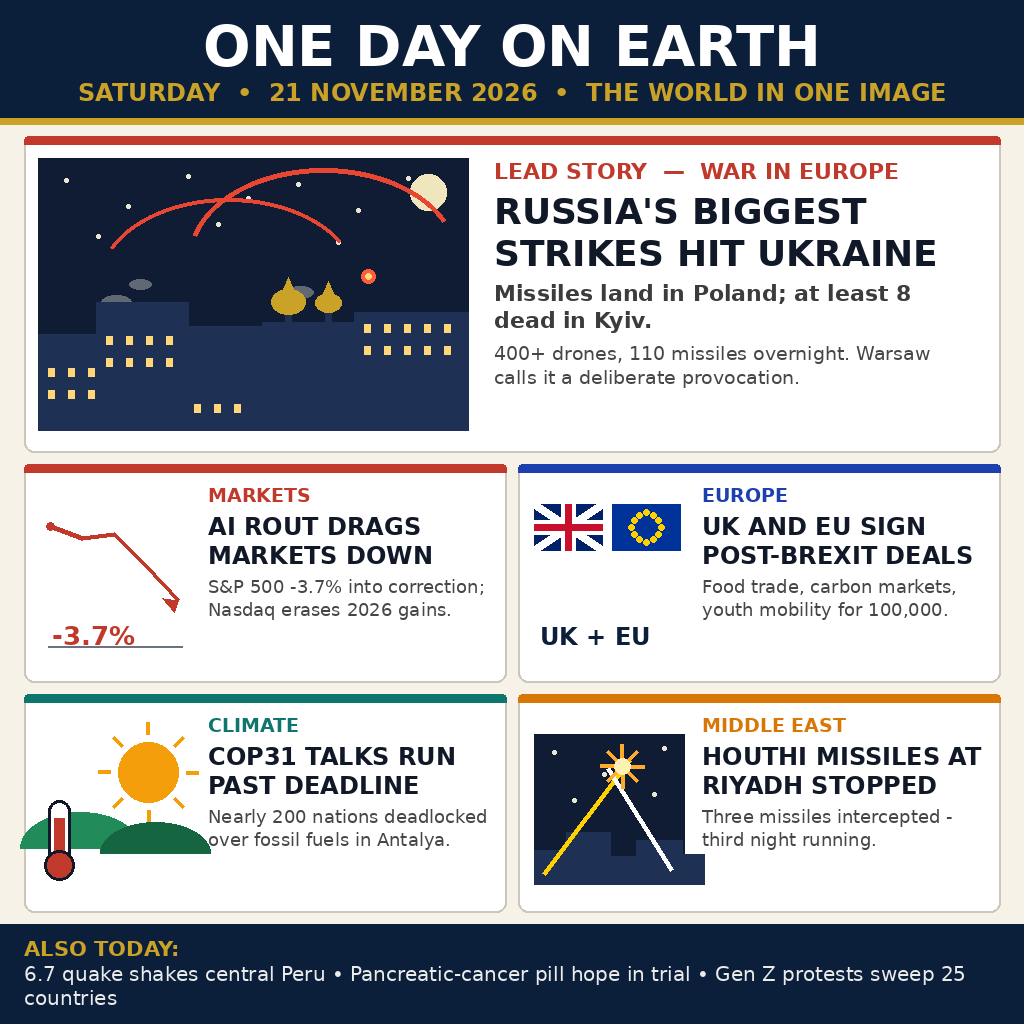
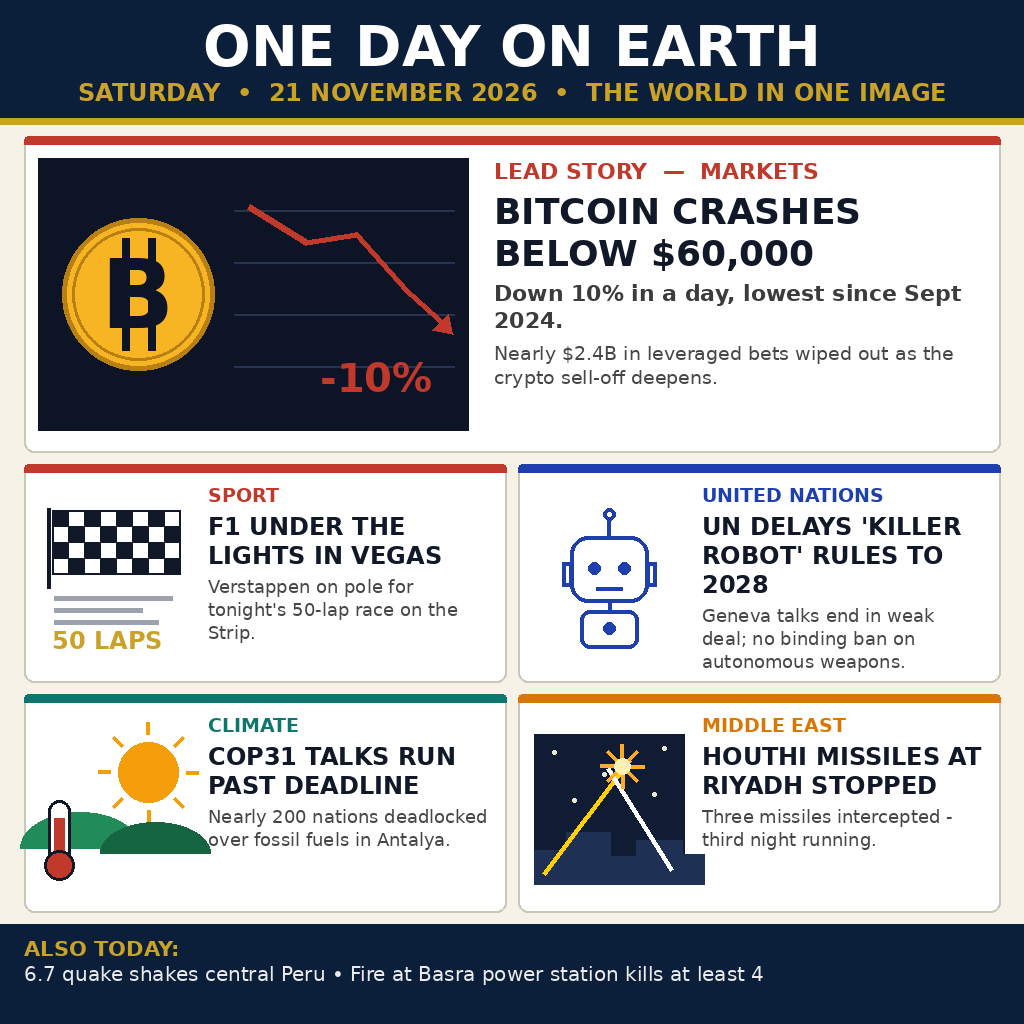
news-image-20261121 @berkahmuse: replace 5 stories dated 20 Nov with verified 21 Nov stories

diff --git a/render.py b/render.py
@@ -2,11 +2,39 @@
 """Render the 21 November 2026 world-news image (1024x1024 PNG).
 
 Concept: "ONE DAY ON EARTH" — a newspaper front page with one dominant
-lead story (Russia's mass strikes on Ukraine, missiles landing in Poland)
-and four illustrated story cards, plus an "also today" ticker.
-All six stories were verified as events of Saturday 21 November 2026
-from multiple independent news sources (BBC, Reuters, Al Jazeera,
-Financial Times, Guardian, OneTurn, Horizon).
+lead story (Bitcoin's crash below $60,000) and four illustrated story
+cards, plus an "also today" ticker.
+
+FIX NOTE (21 Nov 2026): the first build of this entry FAILED independent
+verification because 5 of its 8 stories were events of 20 November, not
+the 21st (Russia-strikes lead, S&P 500 rout, UK-EU deals, pancreatic-
+cancer pill ticker, Gen Z protests ticker). Those 5 were replaced with
+the stories below; the COP31, Houthi and Peru stories were kept (the
+verifier confirmed them as 21 November). Every story in this version,
+with the date evidence checked before rendering:
+
+- LEAD (Markets): Bitcoin crashes below $60,000 — CoinGecko 06:06 UTC
+  Sat 21 Nov: $55,684, -9.96% in 24h, lowest since Sept 2024; 24h
+  liquidations $1.76B (BeInCrypto) to nearly $2.4B (CryptoPotato /
+  The Defiant). Sources: bitcoinfoundation.org, trustscrypto.com.
+- SPORT: F1 Las Vegas GP — race night Sat 21 Nov (20:00 PST, 50 laps,
+  Las Vegas Strip Circuit); Verstappen on pole after fastest qualifier
+  Antonelli took a 5-place grid penalty. Sources: Reuters 21 Nov,
+  formula1.com. (Preview only — the race had not run at build time.)
+- UNITED NATIONS: CCW "killer robot" talks in Geneva end Sat 21 Nov
+  (~03:00 GMT) in a weak, non-binding deal: a two-year mandate to
+  elaborate rules by 2028; ~100 states backed binding rules, the US,
+  Russia and Israel opposed. Source: Reuters 21 Nov.
+- CLIMATE: COP31 (Antalya) talks run past their Friday deadline —
+  closing plenary suspended 22:29 Fri, third draft and plenary continue
+  Sat 21 Nov. Sources: AP / TBS News, The Climate Watch.
+- MIDDLE EAST: Saudi-led coalition intercepts 3 Houthi ballistic
+  missiles aimed at Riyadh in the early hours of Sat 21 Nov, the third
+  night running. Source: Reuters 21 Nov.
+- TICKER: M6.7 quake in central Peru — 19:09 Peru time Fri 20 Nov =
+  00:09 GMT Sat 21 Nov (AP; China Daily). Fire at the Hartha power
+  station, Basra, Sat 21 Nov kills at least 4, injures 30 (Reuters,
+  dateline Basra, Nov 21).
 
 Run:  python3 render.py            -> writes entry.png next to this file
 The entrypoint main.py only copies entry.png to /output/entry.png, so the
@@ -72,88 +100,78 @@ def card(draw, x, y, w, h, accent):
     draw.rectangle([x, y + 4, x + w, y + 8], fill=accent)
 
 
-def draw_skyline(d, x0, y0, w, h):
-    """Night skyline over Kyiv: dark sky, lit windows, a domed church,
-    red missile arcs and smoke. All flat vector shapes, contained in the
-    (x0, y0, w, h) box."""
-    d.rectangle([x0, y0, x0 + w, y0 + h], fill=(16, 28, 52))
-    # stars
-    for sx, sy in [(28, 22), (90, 48), (150, 18), (210, 40), (260, 26),
-                   (320, 52), (370, 20), (60, 78), (300, 84), (180, 66)]:
-        d.ellipse([x0 + sx - 2, y0 + sy - 2, x0 + sx + 2, y0 + sy + 2],
-                  fill=(230, 230, 210))
-    # moon (small, top right)
-    d.ellipse([x0 + w - 58, y0 + 16, x0 + w - 22, y0 + 52],
-              fill=(240, 230, 190))
-    base = y0 + h
-    # missile arcs, kept inside the box
-    d.arc([x0 + 150, y0 + 10, x0 + 420, y0 + 190], start=195, end=335,
-          fill=(230, 70, 50), width=5)
-    d.arc([x0 + 60, y0 + 40, x0 + 320, y0 + 210], start=205, end=330,
-          fill=(230, 70, 50), width=4)
-    for mx, my in [(x0 + 330, y0 + 118), (x0 + 258, y0 + 140)]:
-        d.ellipse([mx - 7, my - 7, mx + 7, my + 7], fill=(255, 90, 60))
-        d.ellipse([mx - 3, my - 3, mx + 3, my + 3], fill=(255, 220, 120))
-    # smoke plumes just above the rooftops
-    for sx, sy, sr in [(x0 + 78, base - 128, 15), (x0 + 102, base - 146, 11),
-                       (x0 + 262, base - 138, 13)]:
-        d.ellipse([sx - sr, sy - sr // 2, sx + sr, sy + sr // 2],
-                  fill=(96, 104, 116))
-    # buildings (silhouettes with lit windows)
-    buildings = [(0, 62, 96), (58, 92, 128), (146, 78, 104), (316, 114, 118)]
-    for bx, bw, bh in buildings:
-        d.rectangle([x0 + bx, base - bh, x0 + bx + bw, base],
-                    fill=(30, 48, 84))
-        for wy in range(base - bh + 12, base - 10, 22):
-            for wx in range(x0 + bx + 10, x0 + bx + bw - 10, 20):
-                if (wx * 7 + wy * 13) % 5 < 2:
-                    d.rectangle([wx, wy, wx + 6, wy + 8], fill=(255, 214, 120))
-    # domed church block between the buildings
-    cx0, cw2, ch2 = x0 + 224, 92, 108
-    d.rectangle([cx0, base - ch2, cx0 + cw2, base], fill=(30, 48, 84))
-    for dx, dr in [(cx0 + 26, 17), (cx0 + 66, 13)]:
-        top = base - ch2
-        d.rectangle([dx - 3, top - 16, dx + 3, top], fill=(30, 48, 84))
-        d.ellipse([dx - dr, top - 16 - dr, dx + dr, top - 16 + dr // 2],
-                  fill=(201, 162, 39))
-        d.polygon([(dx, top - 16 - dr - 12), (dx - 5, top - 16 - dr),
-                   (dx + 5, top - 16 - dr)], fill=(201, 162, 39))
-
-
-def draw_chart(d, x0, y0, w, h):
-    """Falling market chart."""
-    d.rectangle([x0, y0, x0 + w, y0 + h], fill=(255, 255, 255))
-    d.line([x0 + 8, y0 + h - 8, x0 + w - 8, y0 + h - 8], fill=GREY, width=2)
-    pts = [(x0 + 10, y0 + 22), (x0 + 42, y0 + 34), (x0 + 74, y0 + 30),
-           (x0 + 106, y0 + 62), (x0 + 138, y0 + 96)]
-    d.line(pts, fill=RED, width=5, joint="curve")
+def draw_bitcoin(d, x0, y0, w, h):
+    """Lead art: dark navy panel, a big gold coin with a bold B and two
+    vertical strokes (no bitcoin glyph in DejaVu), a red falling line
+    and a -10% label. Contained in the (x0, y0, w, h) box."""
+    d.rectangle([x0, y0, x0 + w, y0 + h], fill=(13, 20, 38))
+    # faint chart gridlines
+    for gy in (52, 104, 156, 208):
+        d.line([x0 + 196, y0 + gy, x0 + w - 14, y0 + gy],
+               fill=(38, 52, 82), width=2)
+    # gold coin
+    cx, cy, r = x0 + 100, y0 + h // 2, 76
+    d.ellipse([cx - r, cy - r, cx + r, cy + r], fill=(247, 181, 36),
+              outline=(184, 128, 20), width=5)
+    d.ellipse([cx - r + 10, cy - r + 10, cx + r - 10, cy + r - 10],
+              outline=(184, 128, 20), width=3)
+    # the two vertical strokes of the bitcoin B, peeking above/below
+    for bx in (cx - 13, cx + 13):
+        d.line([bx, cy - 56, bx, cy + 56], fill=(13, 20, 38), width=8)
+    d.text((cx, cy), "B", font=font(FONT_B, 96), fill=(13, 20, 38),
+           anchor="mm")
+    # red falling line + arrowhead
+    pts = [(x0 + 210, y0 + 48), (x0 + 268, y0 + 84), (x0 + 318, y0 + 76),
+           (x0 + 368, y0 + 132), (x0 + 408, y0 + 168)]
+    d.line(pts, fill=RED, width=6, joint="curve")
     ex, ey = pts[-1]
-    d.polygon([(ex, ey), (ex - 16, ey - 2), (ex - 4, ey + 12)], fill=RED)
-    d.ellipse([pts[0][0] - 4, pts[0][1] - 4, pts[0][0] + 4, pts[0][1] + 4],
+    d.polygon([(ex + 6, ey + 8), (ex - 14, ey + 4), (ex + 2, ey - 12)],
               fill=RED)
-    d.text((x0 + 12, y0 + h - 34), "-3.7%", font=font(FONT_B, 26), fill=RED)
+    d.text((x0 + 282, y0 + 196), "-10%", font=font(FONT_B, 40), fill=RED)
 
 
-def draw_flags(d, x0, y0, w, h):
-    """Simplified Union Jack + EU flag, side by side."""
-    # Union Jack
-    d.rectangle([x0, y0, x0 + 68, y0 + 46], fill=(1, 33, 105))
-    d.line([x0, y0, x0 + 68, y0 + 46], fill=(255, 255, 255), width=9)
-    d.line([x0 + 68, y0, x0, y0 + 46], fill=(255, 255, 255), width=9)
-    d.line([x0 + 34, y0, x0 + 34, y0 + 46], fill=(255, 255, 255), width=15)
-    d.line([x0, y0 + 23, x0 + 68, y0 + 23], fill=(255, 255, 255), width=15)
-    d.line([x0 + 34, y0, x0 + 34, y0 + 46], fill=(200, 16, 46), width=7)
-    d.line([x0, y0 + 23, x0 + 68, y0 + 23], fill=(200, 16, 46), width=7)
-    # EU flag
-    ex = x0 + 78
-    d.rectangle([ex, y0, ex + 68, y0 + 46], fill=(0, 51, 153))
-    import math
-    for i in range(12):
-        a = 2 * math.pi * i / 12 - math.pi / 2
-        sx = ex + 34 + int(15 * math.cos(a))
-        sy = y0 + 23 + int(15 * math.sin(a))
-        d.ellipse([sx - 3, sy - 3, sx + 3, sy + 3], fill=(255, 209, 0))
-    d.text((x0 + 6, y0 + h - 32), "UK + EU", font=font(FONT_B, 24), fill=NAVY)
+def draw_f1(d, x0, y0, w, h):
+    """Chequered flag (8x4) on a pole, speed lines, '50 LAPS' in gold."""
+    # pole
+    d.line([x0 + 8, y0 + 4, x0 + 8, y0 + 84], fill=INK, width=4)
+    # chequered flag
+    fx, fy, cell = x0 + 12, y0 + 6, 16
+    for row in range(4):
+        for col in range(8):
+            if (row + col) % 2 == 0:
+                d.rectangle([fx + col * cell, fy + row * cell,
+                             fx + (col + 1) * cell, fy + (row + 1) * cell],
+                            fill=INK)
+    d.rectangle([fx, fy, fx + 8 * cell, fy + 4 * cell], outline=INK, width=2)
+    # speed lines
+    for i, (off, ln) in enumerate([(94, 118), (106, 88), (118, 104)]):
+        d.line([x0 + 14, y0 + off, x0 + 14 + ln, y0 + off],
+               fill=(156, 163, 175), width=5)
+    d.text((x0 + 12, y0 + h - 28), "50 LAPS", font=font(FONT_B, 24),
+           fill=GOLD)
+
+
+def draw_un(d, x0, y0, w, h):
+    """Simple robot in blue outline: round head, antenna, two eyes, body."""
+    # antenna
+    d.line([x0 + 75, y0 + 34, x0 + 75, y0 + 16], fill=BLUE, width=4)
+    d.ellipse([x0 + 69, y0 + 4, x0 + 81, y0 + 16], outline=BLUE, width=4)
+    # ears
+    d.rectangle([x0 + 28, y0 + 58, x0 + 38, y0 + 82], outline=BLUE, width=4)
+    d.rectangle([x0 + 112, y0 + 58, x0 + 122, y0 + 82], outline=BLUE, width=4)
+    # head
+    d.rounded_rectangle([x0 + 36, y0 + 32, x0 + 114, y0 + 98], radius=18,
+                        outline=BLUE, width=4)
+    # eyes
+    for ex in (x0 + 60, x0 + 90):
+        d.ellipse([ex - 6, y0 + 58, ex + 6, y0 + 70], fill=BLUE)
+    # mouth
+    d.line([x0 + 62, y0 + 84, x0 + 88, y0 + 84], fill=BLUE, width=4)
+    # neck + body
+    d.line([x0 + 75, y0 + 98, x0 + 75, y0 + 106], fill=BLUE, width=4)
+    d.rounded_rectangle([x0 + 46, y0 + 106, x0 + 104, y0 + 144], radius=10,
+                        outline=BLUE, width=4)
+    d.ellipse([x0 + 69, y0 + 118, x0 + 81, y0 + 130], fill=BLUE)
 
 
 def draw_climate(d, x0, y0, w, h):
@@ -221,31 +239,31 @@ def main():
     # ---------- lead story ----------
     lx, ly, lw, lh = 24, 136, 976, 316
     card(d, lx, ly, lw, lh, RED)
-    draw_skyline(d, lx + 14, ly + 22, 430, 272)
+    draw_bitcoin(d, lx + 14, ly + 22, 430, 272)
     tx = lx + 470
-    d.text((tx, ly + 22), "LEAD STORY  —  WAR IN EUROPE",
+    d.text((tx, ly + 22), "LEAD STORY  —  MARKETS",
            font=font(FONT_B, 22), fill=RED)
-    head = wrap(d, "RUSSIA'S BIGGEST STRIKES HIT UKRAINE",
+    head = wrap(d, "BITCOIN CRASHES BELOW $60,000",
                 font(FONT_B, 36), lw - 496)
     y = text_block(d, tx, ly + 54, head, font(FONT_B, 36), INK, 42)
     y = text_block(d, tx, y + 6,
-                   wrap(d, "Missiles land in Poland; at least 8 dead in Kyiv.",
+                   wrap(d, "Down 10% in a day, lowest since Sept 2024.",
                         font(FONT_B, 22), lw - 496),
                    font(FONT_B, 22), (60, 60, 60), 27)
     text_block(d, tx, y + 8,
-               wrap(d, "400+ drones, 110 missiles overnight. Warsaw calls it "
-                       "a deliberate provocation.",
+               wrap(d, "Nearly $2.4B in leveraged bets wiped out as the "
+                       "crypto sell-off deepens.",
                     font(FONT_R, 19), lw - 496),
                font(FONT_R, 19), (70, 70, 70), 24)
 
     # ---------- four story cards ----------
     cards = [
-        ("MARKETS", RED, draw_chart,
-         "AI ROUT DRAGS MARKETS DOWN",
-         "S&P 500 -3.7% into correction; Nasdaq erases 2026 gains."),
-        ("EUROPE", BLUE, draw_flags,
-         "UK AND EU SIGN POST-BREXIT DEALS",
-         "Food trade, carbon markets, youth mobility for 100,000."),
+        ("SPORT", RED, draw_f1,
+         "F1 UNDER THE LIGHTS IN VEGAS",
+         "Verstappen on pole for tonight's 50-lap race on the Strip."),
+        ("UNITED NATIONS", BLUE, draw_un,
+         "UN DELAYS 'KILLER ROBOT' RULES TO 2028",
+         "Geneva talks end in weak deal; no binding ban on autonomous weapons."),
         ("CLIMATE", TEAL, draw_climate,
          "COP31 TALKS RUN PAST DEADLINE",
          "Nearly 200 nations deadlocked over fossil fuels in Antalya."),
@@ -271,8 +289,8 @@ def main():
     # ---------- footer ticker ----------
     d.rectangle([0, 924, W, H], fill=NAVY)
     d.text((24, 936), "ALSO TODAY:", font=font(FONT_B, 21), fill=GOLD)
-    ticker = ("6.7 quake shakes central Peru   •   Pancreatic-cancer pill hope in trial   •   "
-              "Gen Z protests sweep 25 countries")
+    ticker = ("6.7 quake shakes central Peru   •   "
+              "Fire at Basra power station kills at least 4")
     text_block(d, 24, 962, wrap(d, ticker, font(FONT_R, 20), W - 48),
                font(FONT_R, 20), (235, 235, 235), 24)
 

diff --git a/README.md b/README.md
@@ -13,24 +13,47 @@ A program that writes one image summing up the world's news of
 
 A newspaper front page, drawn programmatically with Pillow (`render.py`):
 
-- **Lead story — War in Europe:** Russia's biggest strikes of the war on
-  Ukraine — 400+ drones and 110 missiles overnight, at least 8 dead in Kyiv —
-  and missiles landing in Poland, which Warsaw called a deliberate provocation.
-- **Markets:** the AI sell-off — S&P 500 −3.7% into correction, Nasdaq erasing
-  its 2026 gains.
-- **Europe:** the UK and EU sign their biggest post-Brexit deals (food trade,
-  carbon markets, youth mobility for 100,000).
+- **Lead story — Markets:** Bitcoin crashes below $60,000 — down 10% in a
+  day, its lowest since September 2024, with nearly $2.4B in leveraged
+  bets wiped out.
+- **Sport:** Formula 1 under the lights in Las Vegas — Verstappen on pole
+  for the night's 50-lap race on the Strip (a race-night preview; the
+  race had not run yet).
+- **United Nations:** the Geneva "killer robot" talks end in a weak deal —
+  rules on autonomous weapons pushed to 2028, no binding ban.
 - **Climate:** COP31 talks in Antalya run past deadline, deadlocked over
   fossil fuels.
 - **Middle East:** Houthi missiles aimed at Riyadh intercepted — the third
   night running.
-- **Also today:** a 6.7 quake shakes central Peru, a pancreatic-cancer pill
-  shows hope in trial, and Gen Z protests sweep 25 countries.
+- **Also today:** a 6.7 quake shakes central Peru, and a fire at the
+  Hartha power station in Basra kills at least 4.
 
-Every story was verified as an event of 21 November 2026 from multiple
-independent news sources (BBC, Reuters, Al Jazeera, Financial Times,
-Guardian). An earlier draft's ICJ Myanmar ruling was dropped after checking:
-the ruling was delivered on 19 November, not the 21st.
+## Date verification
+
+Each story was checked against independent reporting before rendering;
+the event date below is the date of the event / first report, per the
+competition rule (an event of 21 November 2026 in any time zone):
+
+| Story | Event date | Evidence |
+|---|---|---|
+| Bitcoin below $60,000 | Sat 21 Nov 2026 | CoinGecko 06:06 UTC 21 Nov: $55,684, −9.96%/24h, lowest since Sept 2024; liquidations $1.76B (BeInCrypto) to ~$2.4B (CryptoPotato, The Defiant) — bitcoinfoundation.org, trustscrypto.com |
+| F1 Las Vegas GP | Race night Sat 21 Nov 2026 | Race Sat 21 Nov 20:00 PST, 50 laps, Las Vegas Strip Circuit; Verstappen pole after Antonelli's 5-place grid penalty — Reuters 21 Nov, formula1.com |
+| UN "killer robots" | Sat 21 Nov 2026 | CCW talks in Geneva end ~03:00 GMT Sat in a non-binding deal; two-year mandate to elaborate rules by 2028 — Reuters 21 Nov |
+| COP31 overtime | Sat 21 Nov 2026 | Closing plenary suspended Fri 22:29 local; third draft and talks continue Saturday — AP / TBS News, The Climate Watch |
+| Houthi missiles at Riyadh | Early Sat 21 Nov 2026 | Saudi-led coalition intercepts 3 ballistic missiles, third night running — Reuters 21 Nov |
+| Peru quake (ticker) | 00:09 GMT Sat 21 Nov 2026 | M6.7, central Peru; 19:09 Fri local = 00:09 GMT Sat — AP, China Daily |
+| Basra fire (ticker) | Sat 21 Nov 2026 | Fire at Hartha power station kills at least 4, injures 30 — Reuters, dateline Basra, Nov 21 |
+
+## Fix note
+
+The first build of this entry failed independent verification on
+21 Nov 2026 (~15:25 WIB): 5 of its 8 stories (the Russia-strikes lead,
+the S&P 500 rout, the UK–EU deals, the pancreatic-cancer pill ticker
+item and the Gen Z protests ticker item) were events of **20 November**,
+not the 21st. All 5 were replaced with the verified 21 November stories
+above; the COP31, Houthi and Peru stories passed verification and were
+kept. An even earlier draft's ICJ Myanmar ruling had already been
+dropped for the same reason: it was delivered on 19 November.
 
 ## Run it
 
